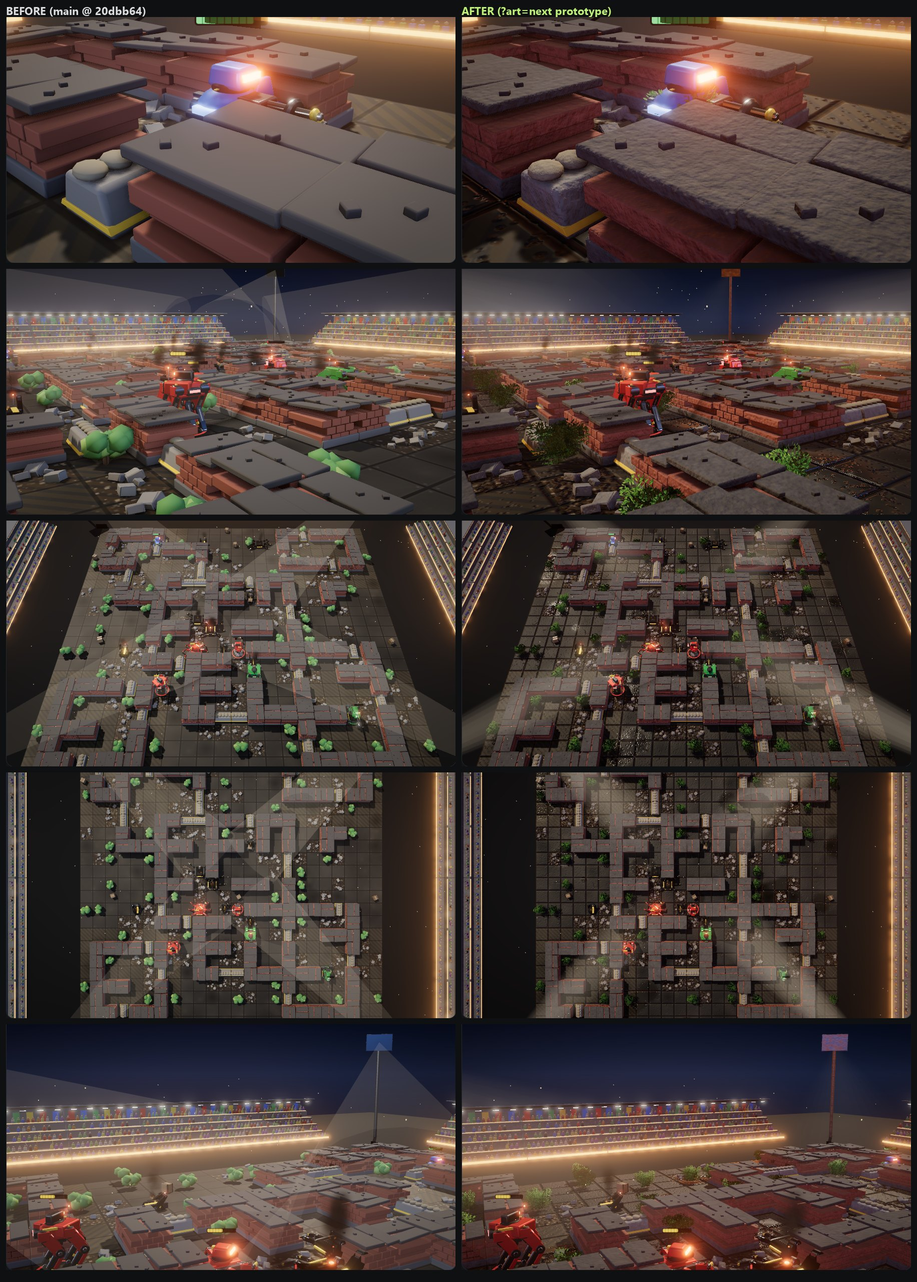
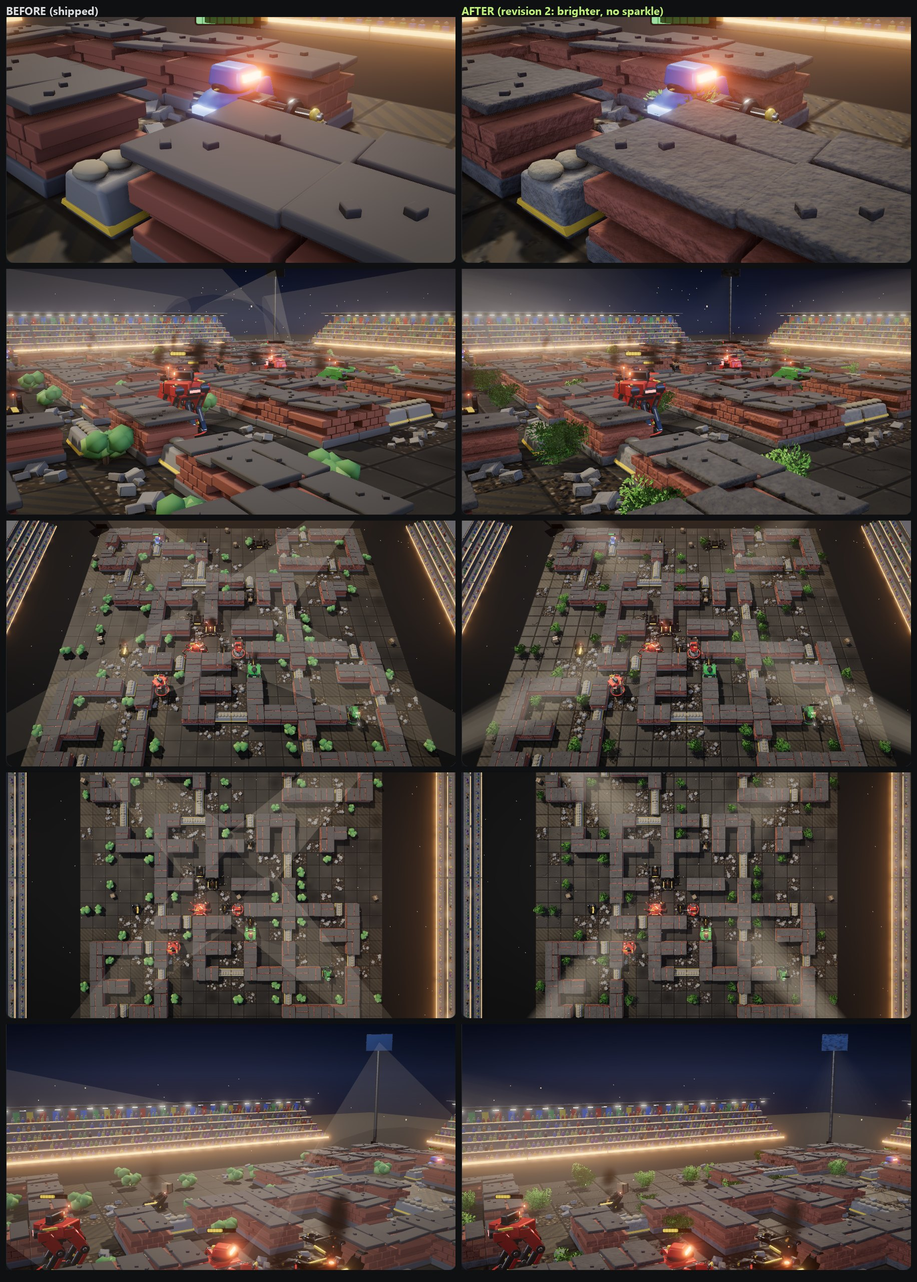
Brighten arena art concept and drop floor sparkle (owner feedback)
The owner liked the card-foliage shrubs but found the concept too dark,
with distracting sparkling floor tiles; legibility comes first.

- Remove wet floor pools and the night-stadium environment probe; the
  shipped RoomEnvironment lighting returns unchanged.
- Halve floor relief and pore depth, lighten cavity shading and wall
  grime, lift floor albedo slightly, and brighten the shrubs.
- Board views now measure within 1-2% of the shipped mean luminance.
- Record the legibility rule in CLAUDE.md and tasks/lessons.md.

Tests: renderer3d suite, typecheck, lint and format pass; visual
evidence refreshed in docs/evidence/arena-art-concept-2026-10-17.

diff --git a/src/renderer3d/arenaArt.ts b/src/renderer3d/arenaArt.ts
@@ -3,13 +3,15 @@
  *  Detail lives in textures and shaders rather than triangles, because the
  *  target GPU (integrated Iris Xe) is bound by scene geometry and AO passes:
  *  - the floor gains a generated normal map and a packed occlusion/roughness
- *    map (bevelled plates, pitting, hairline cracks, wet patches);
+ *    map (bevelled plates, pitting, hairline cracks);
  *  - masonry and metal props gain a world-space weathering hook (colour
  *    breakup, ground grime, roughness variation, micro-bump) at zero draw cost;
  *  - bushes become instanced alpha-card foliage, far fewer triangles than the
  *    faceted icosphere clusters they replace;
- *  - a theme-matched environment map lets wet and metal surfaces reflect the
- *    floodlights instead of a generic studio room.
+ *  - floodlight beams use a soft volumetric shader instead of flat cones.
+ *
+ *  Legibility comes first: detail adds grit through surface texture, never by
+ *  dimming the scene, and floors avoid glossy high-frequency sparkle.
  *
  *  All variation is hashed from tile coordinates, so every replay shows the
  *  identical arena.
@@ -40,8 +42,6 @@ export interface FloorDetailStyle {
   /** Baseline roughness of dry plates, 0..1. */
   readonly roughness: number;
   readonly metalness: number;
-  /** Share of the floor covered by wet, glossy patches, 0..1. */
-  readonly wetness: number;
   /** Normal strength; larger reads as deeper seams and rougher concrete. */
   readonly relief: number;
 }
@@ -83,7 +83,7 @@ export const paintFloorDetail = (
       hash01("fp-x", i) * width,
       hash01("fp-y", i) * height,
       0.8 + hash01("fp-r", i) * 1.6,
-      hash01("fp-d", i) > 0.35 ? -0.1 : 0.06,
+      hash01("fp-d", i) > 0.35 ? -0.05 : 0.03,
     );
 
   // Plates: bevelled edges falling into recessed seams.
@@ -95,7 +95,7 @@ export const paintFloorDetail = (
       const edge = Math.min(lx, ly, px - 1 - lx, px - 1 - ly);
       if (edge < bevel) {
         const t = edge / bevel;
-        h[y * width + x] = h[y * width + x]! * (0.55 + 0.45 * t * t * (3 - 2 * t));
+        h[y * width + x] = h[y * width + x]! * (0.85 + 0.15 * t * t * (3 - 2 * t));
         rough[y * width + x] = Math.min(1, rough[y * width + x]! + (1 - t) * 0.2);
       }
     }
@@ -136,24 +136,6 @@ export const paintFloorDetail = (
       }
     }
 
-  // Wet patches: low roughness pooling in the low spots between plates.
-  if (style.wetness > 0) {
-    const pools = arena.width * arena.height * 0.08 * style.wetness;
-    const wet = new Float32Array(width * height);
-    for (let i = 0; i < pools; i += 1)
-      stamp(
-        hash01("fw-x", i) * width,
-        hash01("fw-y", i) * height,
-        px * (0.5 + hash01("fw-r", i) * 1.4),
-        0.9,
-        wet,
-      );
-    for (let i = 0; i < wet.length; i += 1) {
-      const w = THREE.MathUtils.smoothstep(wet[i]!, 0.25, 0.75);
-      rough[i] = THREE.MathUtils.lerp(rough[i]!, 0.24, w);
-    }
-  }
-
   const normal = document.createElement("canvas");
   normal.width = width;
   normal.height = height;
@@ -175,7 +157,7 @@ export const paintFloorDetail = (
       nImage.data[i + 1] = ((dy / len) * 0.5 + 0.5) * 255;
       nImage.data[i + 2] = ((1 / len) * 0.5 + 0.5) * 255;
       nImage.data[i + 3] = 255;
-      const cavity = THREE.MathUtils.clamp(0.55 + h[y * width + x]! * 0.75, 0, 1);
+      const cavity = THREE.MathUtils.clamp(0.92 + h[y * width + x]! * 0.2, 0, 1);
       oImage.data[i] = cavity * 255;
       oImage.data[i + 1] = THREE.MathUtils.clamp(rough[y * width + x]!, 0.04, 1) * 255;
       oImage.data[i + 2] = style.metalness * 255;
@@ -210,9 +192,9 @@ const PROFILE_UNIFORMS: Readonly<
     { scale: number; tone: number; bump: number; grime: number; rough: number }
   >
 > = {
-  masonry: { scale: 7, tone: 0.26, bump: 0.02, grime: 0.5, rough: 0.12 },
-  soft: { scale: 12, tone: 0.16, bump: 0.008, grime: 0.4, rough: 0.05 },
-  metal: { scale: 4, tone: 0.08, bump: 0.003, grime: 0.4, rough: 0.22 },
+  masonry: { scale: 7, tone: 0.24, bump: 0.02, grime: 0.2, rough: 0.12 },
+  soft: { scale: 12, tone: 0.16, bump: 0.008, grime: 0.18, rough: 0.05 },
+  metal: { scale: 4, tone: 0.08, bump: 0.003, grime: 0.18, rough: 0.22 },
 };
 
 /** Tileable detail noise, generated once: R = fine grain, G = broad blotches,
@@ -445,7 +427,7 @@ const bushGeometry = (): THREE.BufferGeometry => {
       uvs.push(u, v);
       // Self-shadowing by depth inside the clump, standing in for AO.
       const shade = THREE.MathUtils.clamp(
-        0.55 + p.y * 0.9 + p.clone().setY(0).length() * 0.6,
+        0.72 + p.y * 0.7 + p.clone().setY(0).length() * 0.5,
         0,
         1,
       );
@@ -507,7 +489,7 @@ export const buildFoliage = (
   matrices.forEach((matrix, index) => {
     mesh.setMatrixAt(index, matrix);
     const t = hash01("bush-tint", index);
-    mesh.setColorAt(index, tint.setHSL(0.22 + (t - 0.5) * 0.08, 0.35, 0.82 + t * 0.15));
+    mesh.setColorAt(index, tint.setHSL(0.24 + (t - 0.5) * 0.08, 0.4, 0.9 + t * 0.1));
   });
   mesh.instanceMatrix.needsUpdate = true;
   mesh.castShadow = true;
@@ -524,69 +506,6 @@ export const buildFoliage = (
       mesh.dispose();
     },
   };
-};
-
-// ---------------------------------------------------------------------------
-// Environment: a night-stadium light probe for reflections and soft fill.
-
-export const stadiumEnvironment = (
-  renderer: THREE.WebGLRenderer,
-  options: {
-    readonly sky: readonly [string, string, string];
-    readonly lamp: number;
-    readonly stands: number;
-  },
-): THREE.WebGLRenderTarget => {
-  const scene = new THREE.Scene();
-  const disposables: { dispose(): void }[] = [];
-  const skyGeometry = new THREE.SphereGeometry(50, 32, 16);
-  const top = new THREE.Color(options.sky[0]);
-  const mid = new THREE.Color(options.sky[1]);
-  const horizon = new THREE.Color(options.sky[2]);
-  const colors: number[] = [];
-  const position = skyGeometry.getAttribute("position");
-  const c = new THREE.Color();
-  for (let i = 0; i < position.count; i += 1) {
-    const y = position.getY(i) / 50;
-    if (y > 0) c.copy(mid).lerp(top, Math.min(1, y * 1.6));
-    else c.copy(horizon).multiplyScalar(0.25);
-    if (Math.abs(y) < 0.12) c.lerp(horizon, 1 - Math.abs(y) / 0.12);
-    colors.push(c.r, c.g, c.b);
-  }
-  skyGeometry.setAttribute("color", new THREE.Float32BufferAttribute(colors, 3));
-  const skyMaterial = new THREE.MeshBasicMaterial({ vertexColors: true, side: THREE.BackSide });
-  scene.add(new THREE.Mesh(skyGeometry, skyMaterial));
-  disposables.push(skyGeometry, skyMaterial);
-
-  // A warm band of stand lighting around the horizon.
-  const ringGeometry = new THREE.CylinderGeometry(40, 40, 6, 48, 1, true);
-  const ringMaterial = new THREE.MeshBasicMaterial({
-    color: new THREE.Color(options.stands).multiplyScalar(1.6),
-    side: THREE.BackSide,
-  });
-  const ring = new THREE.Mesh(ringGeometry, ringMaterial);
-  ring.position.y = 4;
-  scene.add(ring);
-  disposables.push(ringGeometry, ringMaterial);
-
-  // Four floodlight banks high in the corners: the hot spots wet floors catch.
-  const lampGeometry = new THREE.PlaneGeometry(9, 4);
-  const lampMaterial = new THREE.MeshBasicMaterial({
-    color: new THREE.Color(options.lamp).multiplyScalar(7),
-    side: THREE.DoubleSide,
-  });
-  disposables.push(lampGeometry, lampMaterial);
-  for (const angle of [0.25, 0.75, 1.25, 1.75]) {
-    const lamp = new THREE.Mesh(lampGeometry, lampMaterial);
-    lamp.position.set(Math.cos(angle * Math.PI) * 36, 22, Math.sin(angle * Math.PI) * 36);
-    lamp.lookAt(0, 0, 0);
-    scene.add(lamp);
-  }
-  const pmrem = new THREE.PMREMGenerator(renderer);
-  const target = pmrem.fromScene(scene, 0.02);
-  pmrem.dispose();
-  for (const item of disposables) item.dispose();
-  return target;
 };
 
 // ---------------------------------------------------------------------------

diff --git a/src/renderer3d/BattleScene3D.ts b/src/renderer3d/BattleScene3D.ts
@@ -16,7 +16,7 @@ import { ShaderPass } from "three/examples/jsm/postprocessing/ShaderPass.js";
 import { UnrealBloomPass } from "three/examples/jsm/postprocessing/UnrealBloomPass.js";
 import { OrbitControls } from "three/examples/jsm/controls/OrbitControls.js";
 import { RoomEnvironment } from "three/examples/jsm/environments/RoomEnvironment.js";
-import { artPreviewEnabled, beamMaterial, stadiumEnvironment } from "./arenaArt";
+import { artPreviewEnabled, beamMaterial } from "./arenaArt";
 import { CopyShader } from "three/examples/jsm/shaders/CopyShader.js";
 import type {
   Heading,
@@ -376,23 +376,13 @@ export class BattleScene3D {
       Math.max(theme.fog.near, Math.max(width, height) * 1.1),
       Math.max(theme.fog.far, Math.max(width, height) * 3),
     );
-    if (this.art && theme.id === "coliseum") {
-      this.environmentTarget = stadiumEnvironment(this.renderer, {
-        sky: theme.sky,
-        lamp: theme.floodlights?.color ?? 0xffffff,
-        stands: 0xff8a3a,
-      });
-      this.scene.environment = this.environmentTarget.texture;
-      this.scene.environmentIntensity = 1.1;
-    } else {
-      const pmrem = new THREE.PMREMGenerator(this.renderer);
-      const environment = new RoomEnvironment();
-      this.environmentTarget = pmrem.fromScene(environment, 0.04);
-      this.scene.environment = this.environmentTarget.texture;
-      environment.dispose();
-      this.scene.environmentIntensity = theme.environment;
-      pmrem.dispose();
-    }
+    const pmrem = new THREE.PMREMGenerator(this.renderer);
+    const environment = new RoomEnvironment();
+    this.environmentTarget = pmrem.fromScene(environment, 0.04);
+    this.scene.environment = this.environmentTarget.texture;
+    environment.dispose();
+    this.scene.environmentIntensity = theme.environment;
+    pmrem.dispose();
 
     const hemi = new THREE.HemisphereLight(theme.hemi.sky, theme.hemi.ground, theme.hemi.intensity);
     this.scene.add(hemi);

diff --git a/src/renderer3d/ArenaBuilder.ts b/src/renderer3d/ArenaBuilder.ts
@@ -280,10 +280,9 @@ export const buildArena = (
   }
   if (art) {
     const detail = paintFloorDetail(arena, FLOOR_PX, {
-      roughness: Math.min(1, theme.floor.roughness + 0.06),
+      roughness: theme.floor.roughness,
       metalness: theme.floor.metalness,
-      wetness: theme.id === "coliseum" ? 0.85 : 0,
-      relief: 12,
+      relief: 7,
     });
     const normalMap = new THREE.CanvasTexture(detail.normal);
     const orm = new THREE.CanvasTexture(detail.orm);
@@ -296,6 +295,9 @@ export const buildArena = (
     floorMaterial.aoMap = orm;
     floorMaterial.aoMapIntensity = 1;
     floorMaterial.roughness = 1;
+    // Relief shading darkens the floor slightly; lift it back so the board
+    // stays at least as bright as the flat painted floor (legibility first).
+    floorMaterial.color.setScalar(1.06);
   }
   const floor = new THREE.Mesh(new THREE.PlaneGeometry(arena.width, arena.height), floorMaterial);
   floor.rotation.x = -Math.PI / 2;
@@ -431,7 +433,7 @@ export const buildArena = (
   }
   instanceProps(library, placements, group);
   if (bushes.length > 0) {
-    const foliage = buildFoliage(bushes, ["#3f7a26", "#4f8c2c", "#64a034", "#78b040", "#335f20"]);
+    const foliage = buildFoliage(bushes, ["#5a9e36", "#6cb03e", "#82c24a", "#94cc58", "#4a8a2e"]);
     group.add(foliage.mesh);
     disposables.push(foliage);
   }

diff --git a/docs/arena-art-concept-2026-10-17.md b/docs/arena-art-concept-2026-10-17.md
@@ -10,13 +10,12 @@ and per-view pairs in the same folder (close-up, low angle, overview, top-down, 
 
 ## What changed (all in `src/renderer3d/arenaArt.ts`)
 
-| Element  | Before                               | Prototype                                                                                                      |
-| -------- | ------------------------------------ | -------------------------------------------------------------------------------------------------------------- |
-| Floor    | Canvas colour map only               | Generated normal map + packed ORM map: bevelled plates, pitting, hairline cracks, wet low-roughness pools      |
-| Walls    | Flat-colour Blender primitives       | Shared weathering hook: colour breakup, ground grime, roughness variation, micro-bump; one noise-texture fetch |
-| Bush     | 9 faceted icospheres (~720 tris)     | 27 instanced alpha cards (54 tris), volumetric normals, mip-aware alpha so it survives the top-down view       |
-| Lighting | Generic RoomEnvironment probe        | Night-stadium probe (sky, stand glow, four floodlight banks) so wet floor and metal reflect the lamps          |
-| Beams    | Flat translucent cones (grey wedges) | Soft-edged volumetric shader, brightest at the lamp                                                            |
+| Element | Before                               | Prototype                                                                                                      |
+| ------- | ------------------------------------ | -------------------------------------------------------------------------------------------------------------- |
+| Floor   | Canvas colour map only               | Generated normal map + packed ORM map: bevelled plates, pitting, hairline cracks                               |
+| Walls   | Flat-colour Blender primitives       | Shared weathering hook: colour breakup, ground grime, roughness variation, micro-bump; one noise-texture fetch |
+| Bush    | 9 faceted icospheres (~720 tris)     | 27 instanced alpha cards (54 tris), volumetric normals, mip-aware alpha so it survives the top-down view       |
+| Beams   | Flat translucent cones (grey wedges) | Soft-edged volumetric shader, brightest at the lamp                                                            |
 
 Foliage is hidden from GTAO's normal pass (`userData.noAO`), because that pass's
 override material ignores `alphaTest`. The AO depth-reuse path from the
@@ -39,7 +38,18 @@ Machine-wide timing drifted between sessions (baseline 36 → 42–50 ms), so on
 paired deltas are meaningful. Not yet measured: the two-player planner,
 Balanced, physical iPad.
 
-## Open questions for the owner
+## Revision 2 (owner feedback)
+
+The owner liked the shrubs but rejected the "sparkling tiles" and the darker
+scene: legibility comes first. Revision 2 removes the wet floor pools and the
+night-stadium environment probe (back to the shipped RoomEnvironment), halves
+the floor relief, lightens cavity shading and wall grime, and brightens the
+shrubs. Mean luminance of the board views is now within 1–2% of the shipped
+look (overview 70.2 vs 71.2, top-down 66.8 vs 68.0). The remaining gap at low
+angles comes from the old flat beam cones, whose grey haze the soft beams
+deliberately drop. Rule recorded in `tasks/lessons.md`.
+
+## Open questions for the owner (concept round 1, answered)
 
 - Bushes are darker and more natural than the old vivid green blobs. Is that
   the right trade, or should cover stay louder for tactical readability?

diff --git a/tasks/lessons.md b/tasks/lessons.md
@@ -23,3 +23,20 @@ alone**. The sheet hues are palette variants the engine re-maps per team.
   selection indicator only.
 - `docs/reverse-engineering.md` §12b takeaway 4 records the corrected
   interpretation.
+
+## 2026-10-17 — Arena art: legibility before mood
+
+The Coliseum art concept (`?art=next`) went darker and moodier than the
+shipped arena and added wet, glossy floor patches. The owner liked the new
+shrubs but rejected the result as too dark, with distracting "sparkling
+tiles": "priority is to see everything clearly."
+
+**Rules:**
+- Arena art upgrades must keep overall brightness at or above the current
+  shipped look. Grit comes from surface detail (texture, weathering), never
+  from lowering scene light. Compare mean luminance against the baseline
+  capture before showing a concept.
+- No glossy/wet floor or fine high-frequency normal detail that catches
+  floodlights as specular sparkle; it reads as noise from the planner camera.
+- Judge every arena change from the top-down planner view first; the
+  cinematic angle comes second.

diff --git a/CLAUDE.md b/CLAUDE.md
@@ -178,6 +178,13 @@ RoboSport (1991)/          gitignored — original DOS distribution; local resea
 
 When working on an engine numerical value: **`src/engine/constants.ts` and `src/engine/catalog.ts` are the literal source of truth.** `docs/spec.md` documents what's there. If they disagree, the code wins and the spec gets updated to match.
 
+## Arena art
+
+Legibility beats mood: arena art changes must keep the board at least as bright
+as the shipped look, add grit through surface texture rather than dimmer
+lighting, avoid glossy/high-frequency floor sparkle, and be judged from the
+top-down planner camera first. See `tasks/lessons.md` (2026-10-17).
+
 ## Documentation conventions
 
 - Each `src/engine/*.ts` file has a top-of-file JSDoc block citing the spec section it implements.
